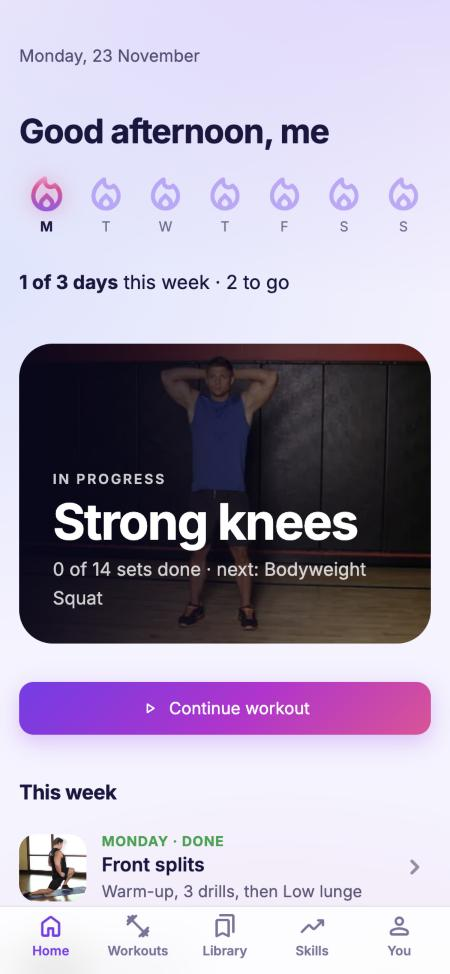
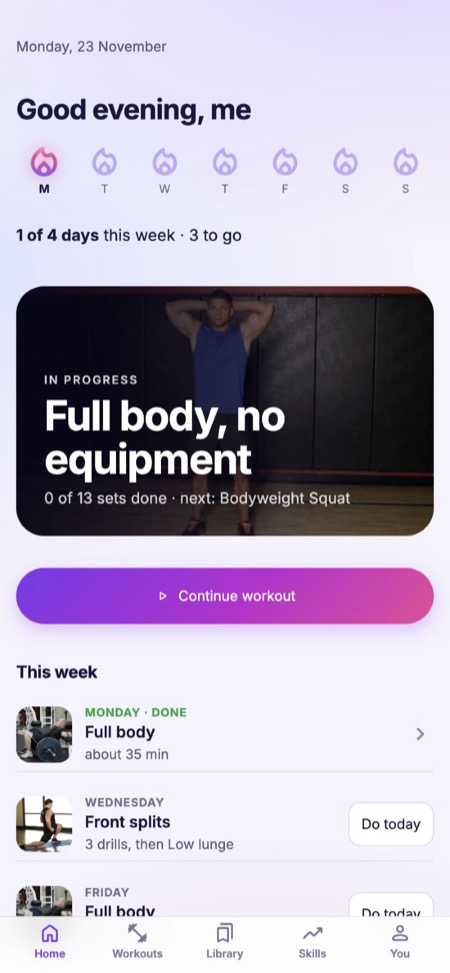
Shorter README, full-body Home screenshot, to-do list
- README: what it is, features, run it locally, tests, links to details
- Streamlit features, lessons and how-to tables moved to docs/ARCHITECTURE.md
- docs/TODO.md lists what is built but not tested yet (GIFs, Google sign-in, AI)

diff --git a/README.md b/README.md
@@ -1,50 +1,28 @@
 # BodySync
 
 A free, phone-first workout app built with [Streamlit](https://streamlit.io). Pick a workout or build your own,
-follow it set by set with moving demos, and watch your progress add up. Every recommendation in the app links to
-the study it comes from.
+follow it set by set, and see your progress add up. Every tip in the app is backed by a cited study.
 
 <p>
-<img src="docs/screenshots/home.jpg" width="200" alt="Home: this week's flames and the workout in progress">
-<img src="docs/screenshots/workouts.jpg" width="200" alt="Workouts: rows of curated workouts, starting with Built for a result">
-<img src="docs/screenshots/set-screen.jpg" width="200" alt="A set: moving demo labelled 1 Start, reps, and Done">
-<img src="docs/screenshots/progress.jpg" width="200" alt="Progress: weeks in a row and lifetime totals">
+<img src="docs/screenshots/home.jpg" width="200" alt="Home: this week and the workout in progress">
+<img src="docs/screenshots/workouts.jpg" width="200" alt="Workouts: rows of curated workouts">
+<img src="docs/screenshots/set-screen.jpg" width="200" alt="A set: moving demo, reps, and Done">
+<img src="docs/screenshots/progress.jpg" width="200" alt="Progress: weeks in a row and totals">
 </p>
 
-This README has three parts. Read the one that fits you:
+## Features
 
-1. [**Use it**](#1-use-it): what the app does, and how to run it.
-2. [**Learn from it**](#2-learn-from-it): how a Streamlit app this size is put together. The full walkthrough is in [docs/ARCHITECTURE.md](docs/ARCHITECTURE.md).
-3. [**Fork it**](#3-fork-it-safely): make your own version without ever touching anyone else's data.
+- **Workouts:** curated workouts for home and the gym, each showing what it targets and why.
+- **Guided sets:** moving demos, a rest timer, pause, and changes mid-workout.
+- **Progressive overload:** suggests your next weight and reps from last time.
+- **Playlists:** build your own workouts, including your own exercises with photos.
+- **Skills:** step-by-step ladders (push-up, pull-up, pistol squat, handstand, splits).
+- **Plan my week:** pick your days and goals, plus an optional walking habit.
+- **Progress:** weekly streak, totals, and history.
+- **Nutrition:** a daily protein target and tally (no calorie counting).
+- **FitBuddy AI (optional):** weekly plans and meal ideas with Gemini.
 
----
-
-## 1. Use it
-
-**Who it's for:** people who want to train regularly, follow workouts that are built on evidence, make their own,
-and see real progress, without paying for an app or handing their data to one.
-
-| | What you get |
-|---|---|
-| **Workouts** | Curated workouts in rows (at home, at the gym, about an hour at the gym, push/pull/legs, stretch). The first row, *Built for a result*, has programs with a goal, how often to train, and honest expectations: a flat-stomach plan that pairs strength with daily walking (ab moves alone don't burn belly fat), strong knees, a first pistol squat, a first handstand, and a Pilates-inspired core session. |
-| **Before you start** | A ready page shows the moves, the time, and the muscles worked, then offers a 5-minute warm-up. You can still change sets, reps, seconds and weight, reorder moves, remove them or add more. The clock starts only when you tap *Start workout*. |
-| **During a workout** | One set at a time, with pause. The demo moves between two labelled positions (*1 Start*, *2 Finish*). Then a rest ring that drains smoothly and chimes at the end. Everything can be changed mid-workout without starting over. |
-| **Progressive overload** | Each lift suggests your next weight and reps from what you did last time (top of the rep range on every set: add weight; otherwise add a rep). Your first time is your baseline; each new best becomes the number to beat. |
-| **Playlists** | Your own workouts in three steps: name it and pick what to work on (or skip), choose exercises (search, filters, A to Z, or create your own with two photos), then set sets and reps, reorder and swap. |
-| **Skills** | Step-by-step ladders (push-up, pull-up, pistol squat, handstand, splits, toe touch). You move up after hitting a step's target twice in a row. |
-| **Plan my week** | Pick your days and one or more goals; the week fills in. Open any day to see and edit its workout, add a skill practice to a workout day, and set a walking habit (for example 10,000 steps on 4 days) that sits on top of any day. Home shows today's plan and the walk to tick off. |
-| **Progress** | Weeks in a row (counted against your own weekly goal), lifetime totals from real logged sets, your favourite workouts, the body area that needs you most, and your history. Any past workout can be repeated, put on your week, or removed. |
-| **Nutrition** | Protein only, on purpose (no calorie counting): a daily target from your body weight, a tally of the foods you have, top-ups from those foods, and your own meals saved for one-tap logging. With AI, a meal idea from your ingredients that you can log or save. All numbers are estimates. |
-| **FitBuddy AI** (optional) | A weekly plan built only from library exercises, saved as real playlists in one tap; a gym machine photo turned into one of your own exercises; meal ideas from your kitchen. The app owner adds one Gemini key and everyone gets a daily allowance; nobody has to paste a key. |
-
-<p>
-<img src="docs/screenshots/ready.jpg" width="200" alt="Ready page with the editable plan">
-<img src="docs/screenshots/rest.jpg" width="200" alt="Rest ring between sets">
-<img src="docs/screenshots/picker.jpg" width="200" alt="Exercise picker, A to Z with search and filters">
-<img src="docs/screenshots/history.jpg" width="200" alt="A past workout: do it again, add it to your week">
-</p>
-
-### Run it on your computer (about 2 minutes)
+## Run it locally
 
 You need Python 3.10 or newer.
 
@@ -57,98 +35,37 @@ pip install -r requirements.txt
 python run.py
 ```
 
-`run.py` downloads the open exercise database on first run and opens the app at <http://localhost:8501>. There
-is no sign-in on your own computer, and your data stays in the git-ignored `data/` folder. API keys are optional;
-press Enter to skip them.
+The app opens at <http://localhost:8501>. There's no sign-in on your own computer, and your data stays in the
+`data/` folder. On first run, `run.py` downloads the open exercise database and asks for optional API keys (press
+Enter to skip).
 
-| Optional key | Turns on | Where to get it |
+| Optional key | Turns on | Get it |
 |---|---|---|
-| `GEMINI_API_KEY` | FitBuddy AI and meal ideas for everyone using your copy (20 requests per person per day, set with `AI_DAILY_LIMIT`) | Free at <https://aistudio.google.com/apikey> |
-| `GIPHY_API_KEY` | Fun G-rated GIFs between sets and at the finish | Free at <https://developers.giphy.com/> |
-| `EDAMAM_APP_ID` / `EDAMAM_APP_KEY` | Recipe search (hidden without keys) | <https://developer.edamam.com/> |
+| `GEMINI_API_KEY` | FitBuddy AI and meal ideas | [Google AI Studio](https://aistudio.google.com/apikey) (free) |
+| `GIPHY_API_KEY` | GIFs between sets | [GIPHY Developers](https://developers.giphy.com/) (free) |
+| `EDAMAM_APP_ID`, `EDAMAM_APP_KEY` | Recipe search | [Edamam](https://developer.edamam.com/) |
 
-Want family or friends to use your copy? See [DEPLOY.md](DEPLOY.md): Google sign-in, each person's data in their
-own Google Drive, free hosting on Streamlit Community Cloud.
-
----
-
-## 2. Learn from it
-
-BodySync is about 9,700 lines of Python, with no JavaScript framework and no backend server of its own. It's a
-good codebase for learning how far plain Streamlit can go. Start with [docs/ARCHITECTURE.md](docs/ARCHITECTURE.md),
-which follows one workout from the tap on a tile to the saved set, function by function.
-
-**The Streamlit features it uses, and why** (all free, all part of Streamlit itself):
-
-| Feature | Used for | Where |
-|---|---|---|
-| `st.navigation` + `st.Page` (hidden) | Multipage app with its own phone tab bar | `homepage.py` |
-| `st.session_state` | Every flow's state (which step, what's picked), plus a per-session data cache | everywhere, `session_data.py` |
-| `st.login` / `st.user` / `st.logout` | "Sign in with Google" without writing OAuth code | `auth.py` |
-| `st.context.headers`, `st.context.theme` | Refusing shared accounts on public addresses; light and dark colours | `auth.py`, `ui.py` |
-| `st.dialog` | Workout details, add exercises, options during a set | `today.py`, `progress.py` |
-| `st.fragment(run_every=1)` | Clocks that tick without rerunning the whole page | `today.py` |
-| `st.container(key=...)` | Stable CSS hooks (`.st-key-...`) for tap rows, tiles and pinned buttons | `ui.py` |
-| `st.html` (JavaScript only for the chime and scroll-to-top) | Custom cards, and animated demos as `<img>` | `ui.py` |
-| `st.pills`, `st.segmented_control`, `st.toggle`, `st.number_input` | Phone-friendly inputs | everywhere |
-| `st.cache_data` | The 870-exercise database, loaded once | `exercise_data.py` |
-| `st.altair_chart` | Progress charts with tooltips | `progress.py` |
-| `st.switch_page`, `st.page_link` | Moving between tabs on purpose | `ui.py`, `lifts.py` |
-| `st.write_stream`, `st.chat_message` | Streaming AI answers | `ui.py`, `chat.py` |
-| `st.download_button` | Export all your workouts as CSV | `progress.py` |
-| `.streamlit/config.toml` | Light and dark themes, the Inter font, and static file serving for demos | `.streamlit/` |
-
-**Lessons learned the hard way** (each one is explained in a comment where it's handled):
-
-- `st.image` re-encodes animated WebP and keeps only the first frame. Moving demos are drawn as `<img>` with `st.html` (`ui.demo`).
-- An invisible button laid over a card only works if its wrapper is forced to full size with `!important`, because Streamlit sets a fixed width on it inline (`ui.TAP_CSS`).
-- `st.html` sanitises its HTML, so CSS containing angle brackets (`syntax: '<number>'`) gets dropped. Write `\3c number\3e` instead (`today._rest_panel`).
-- A widget's value is forgotten when it isn't drawn. Multi-step flows keep their own copy in `st.session_state` (`playlist_builder._s`).
-- Streamlit keeps the scroll position between reruns, so a new step of a flow asks to start at the top (`ui.to_top`).
-
-Run the tests (plain Python, no test framework needed):
+## Run the tests
 
 ```bash
 for t in training skills drive db_contract research plan protein custom ai targets; do python tests/test_$t.py; done
-pip install pyflakes && python -m pyflakes *.py   # catches names used but never defined
 ```
 
----
+## Details
 
-## 3. Fork it safely
+- [docs/ARCHITECTURE.md](docs/ARCHITECTURE.md): how the code is organised, and how to add workouts, exercises and skills.
+- [DEPLOY.md](DEPLOY.md): host your own copy with Google sign-in.
+- [PRIVACY.md](PRIVACY.md): what is stored and where.
+- [docs/TODO.md](docs/TODO.md): what is built but not tested yet.
+- [docs/RESEARCH_AUDIT.md](docs/RESEARCH_AUDIT.md) and [research.json](research.json): the research behind each recommendation.
 
-Forking this repository gives you **code only**. No user data is in the repository, and no fork can reach anyone
-else's data:
+## Credits
 
-- **On your computer**, data lives in `data/` (git-ignored).
-- **When hosted with Google sign-in**, each person's data is a private file in **their own** Google Drive app folder. Only the copy of the app they signed in to can open it. The original authors can't see it, and neither can you.
-- **A public copy without sign-in won't open.** It shows a setup page instead, because everyone would otherwise share one account (`auth.on_private_network`).
-- **Secrets never go in the repo.** `.env` and `.streamlit/secrets.toml` are git-ignored; only the `.example` templates with placeholders are committed. A Gemini key someone pastes into the app lives in their browser session only.
-- **SQL** always passes values as parameters, never pasted into the query text.
-- **Names people type** (playlists, custom skills) are escaped before they're shown, and `st.html` strips scripts as a second layer.
-
-How to add the common things:
-
-| I want to... | Do this |
-|---|---|
-| Add a curated workout | Add an entry to `curated_workouts.json` (exercise names must exist in the exercise database) and cite its research ids |
-| Add a research-backed tip | Add an entry to `research.json` with a real source; mark it `"verified"` only after you've read the source |
-| Add an exercise the database lacks | Two photos (start, finish) in `static/<source>/<name>/`, and an entry in `extra_exercises.json` with its license and author |
-| Add a skill ladder | A new ladder in `progressions.json` (steps, targets, demos) |
-| Change colours | `.streamlit/config.toml` and the colour tokens in `ui.py` |
-
----
-
-## Data and credits
-
-- Exercises and photos: the public-domain [Free Exercise DB](https://github.com/yuhonas/free-exercise-db). Every exercise there has exactly two photos (a start and an end), so moves like circles show a note and their written steps.
-- Pike Push-Up drawing: wger.de contributors ([wger.de](https://wger.de/en/exercise/454/view/)), CC-BY-SA 4.0, split into two positions.
-- Celebration flame: [Noto Emoji](https://github.com/googlefonts/noto-emoji) by Google, CC BY 4.0, recoloured.
-- The research behind each recommendation is in [research.json](research.json), and the reasoning is in [docs/RESEARCH_AUDIT.md](docs/RESEARCH_AUDIT.md).
+- Exercises and photos: [Free Exercise DB](https://github.com/yuhonas/free-exercise-db) (public domain).
+- Pike Push-Up drawing: [wger.de](https://wger.de/en/exercise/454/view/) contributors, CC BY-SA 4.0.
+- Celebration flame: [Noto Emoji](https://github.com/googlefonts/noto-emoji) by Google, CC BY 4.0.
 
 ## Contributors
-
-BodySync started as a team project. Thank you to everyone who built the original:
 
 - [JaffaraH](https://github.com/JaffaraH)
 - [alishuhh](https://github.com/alishuhh)

diff --git a/docs/ARCHITECTURE.md b/docs/ARCHITECTURE.md
@@ -155,3 +155,41 @@ shown.
 | A suggestion seems wrong | `training.suggest` and `tests/test_training.py` |
 | Data didn't save on the hosted copy | `homepage._flush` and `db_drive.py` (the Google token lasts about an hour) |
 | A page opens half-way down | Call `ui.to_top()` when the flow changes step |
+
+## Streamlit features used, and why
+
+| Feature | Used for | Where |
+|---|---|---|
+| `st.navigation` + `st.Page` (hidden) | Multipage app with its own phone tab bar | `homepage.py` |
+| `st.session_state` | Every flow's state (which step, what's picked), plus a per-session data cache | everywhere, `session_data.py` |
+| `st.login` / `st.user` / `st.logout` | "Sign in with Google" without writing OAuth code | `auth.py` |
+| `st.context.headers`, `st.context.theme` | Refusing shared accounts on public addresses; light and dark colours | `auth.py`, `ui.py` |
+| `st.dialog` | Workout details, add exercises, options during a set | `today.py`, `progress.py` |
+| `st.fragment(run_every=1)` | Clocks that tick without rerunning the whole page | `today.py` |
+| `st.container(key=...)` | Stable CSS hooks (`.st-key-...`) for tap rows, tiles and pinned buttons | `ui.py` |
+| `st.html` (JavaScript only for the chime and scroll-to-top) | Custom cards, and animated demos as `<img>` | `ui.py` |
+| `st.pills`, `st.segmented_control`, `st.toggle`, `st.number_input` | Phone-friendly inputs | everywhere |
+| `st.cache_data` | The 870-exercise database, loaded once | `exercise_data.py` |
+| `st.altair_chart` | Progress charts with tooltips | `progress.py` |
+| `st.switch_page`, `st.page_link` | Moving between tabs on purpose | `ui.py`, `lifts.py` |
+| `st.write_stream`, `st.chat_message` | Streaming AI answers | `ui.py`, `chat.py` |
+| `st.download_button` | Export all your workouts as CSV | `progress.py` |
+| `.streamlit/config.toml` | Light and dark themes, the Inter font, and static file serving for demos | `.streamlit/` |
+
+## Lessons learned the hard way
+
+- `st.image` re-encodes animated WebP and keeps only the first frame. Moving demos are drawn as `<img>` with `st.html` (`ui.demo`).
+- An invisible button laid over a card only works if its wrapper is forced to full size with `!important`, because Streamlit sets a fixed width on it inline (`ui.TAP_CSS`).
+- `st.html` sanitises its HTML, so CSS containing angle brackets (`syntax: '<number>'`) gets dropped. Write `\3c number\3e` instead (`today._rest_panel`).
+- A widget's value is forgotten when it isn't drawn. Multi-step flows keep their own copy in `st.session_state` (`playlist_builder._s`).
+- Streamlit keeps the scroll position between reruns, so a new step of a flow asks to start at the top (`ui.to_top`).
+
+## How to add common things
+
+| I want to... | Do this |
+|---|---|
+| Add a curated workout | Add an entry to `curated_workouts.json` (exercise names must exist in the exercise database) and cite its research ids |
+| Add a research-backed tip | Add an entry to `research.json` with a real source; mark it `"verified"` only after you've read the source |
+| Add an exercise the database lacks | Two photos (start, finish) in `static/<source>/<name>/`, and an entry in `extra_exercises.json` with its license and author |
+| Add a skill ladder | A new ladder in `progressions.json` (steps, targets, demos) |
+| Change colours | `.streamlit/config.toml` and the colour tokens in `ui.py` |

diff --git a/docs/TODO.md b/docs/TODO.md
@@ -1,0 +1,7 @@
+# To do
+
+Things that are built but not tested yet, or waiting on setup.
+
+- [ ] Test Fun GIFs: turn them on and off in You > Fun GIFs. Needs a free `GIPHY_API_KEY`.
+- [ ] Test Google sign-in and saving to Drive on the hosted copy (after the steps in DEPLOY.md).
+- [ ] Test FitBuddy AI with a real Gemini key.
